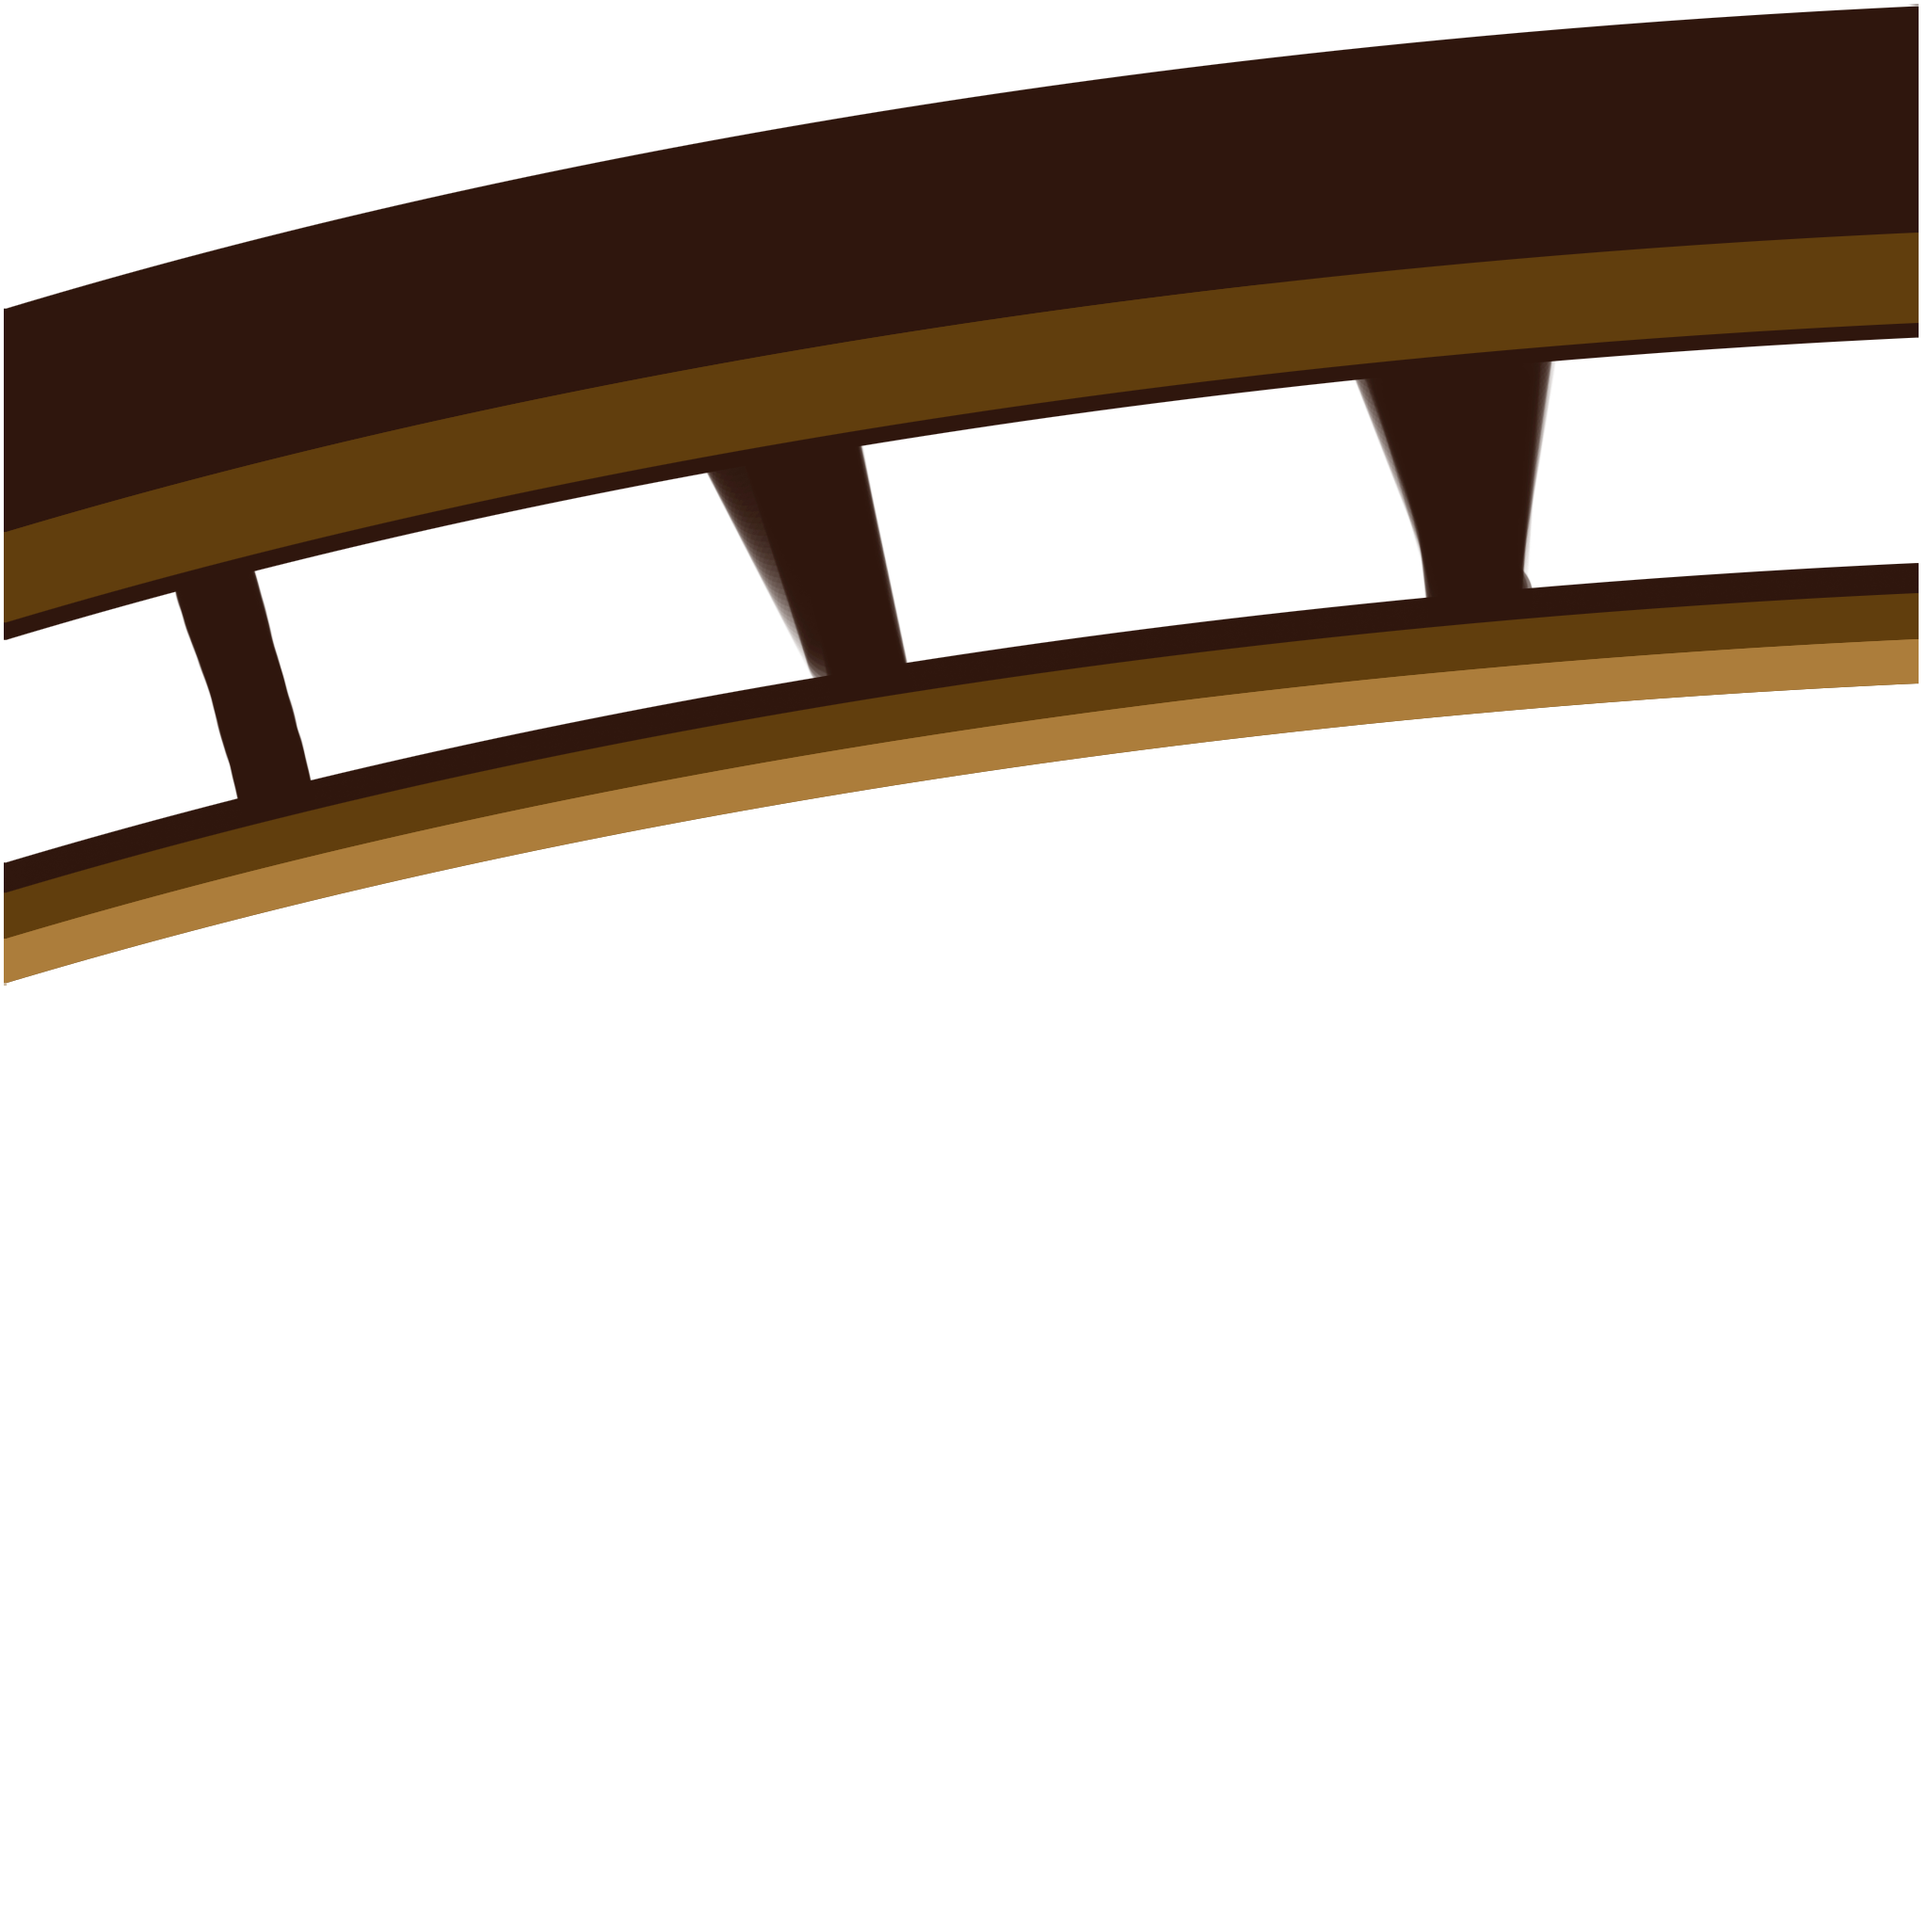
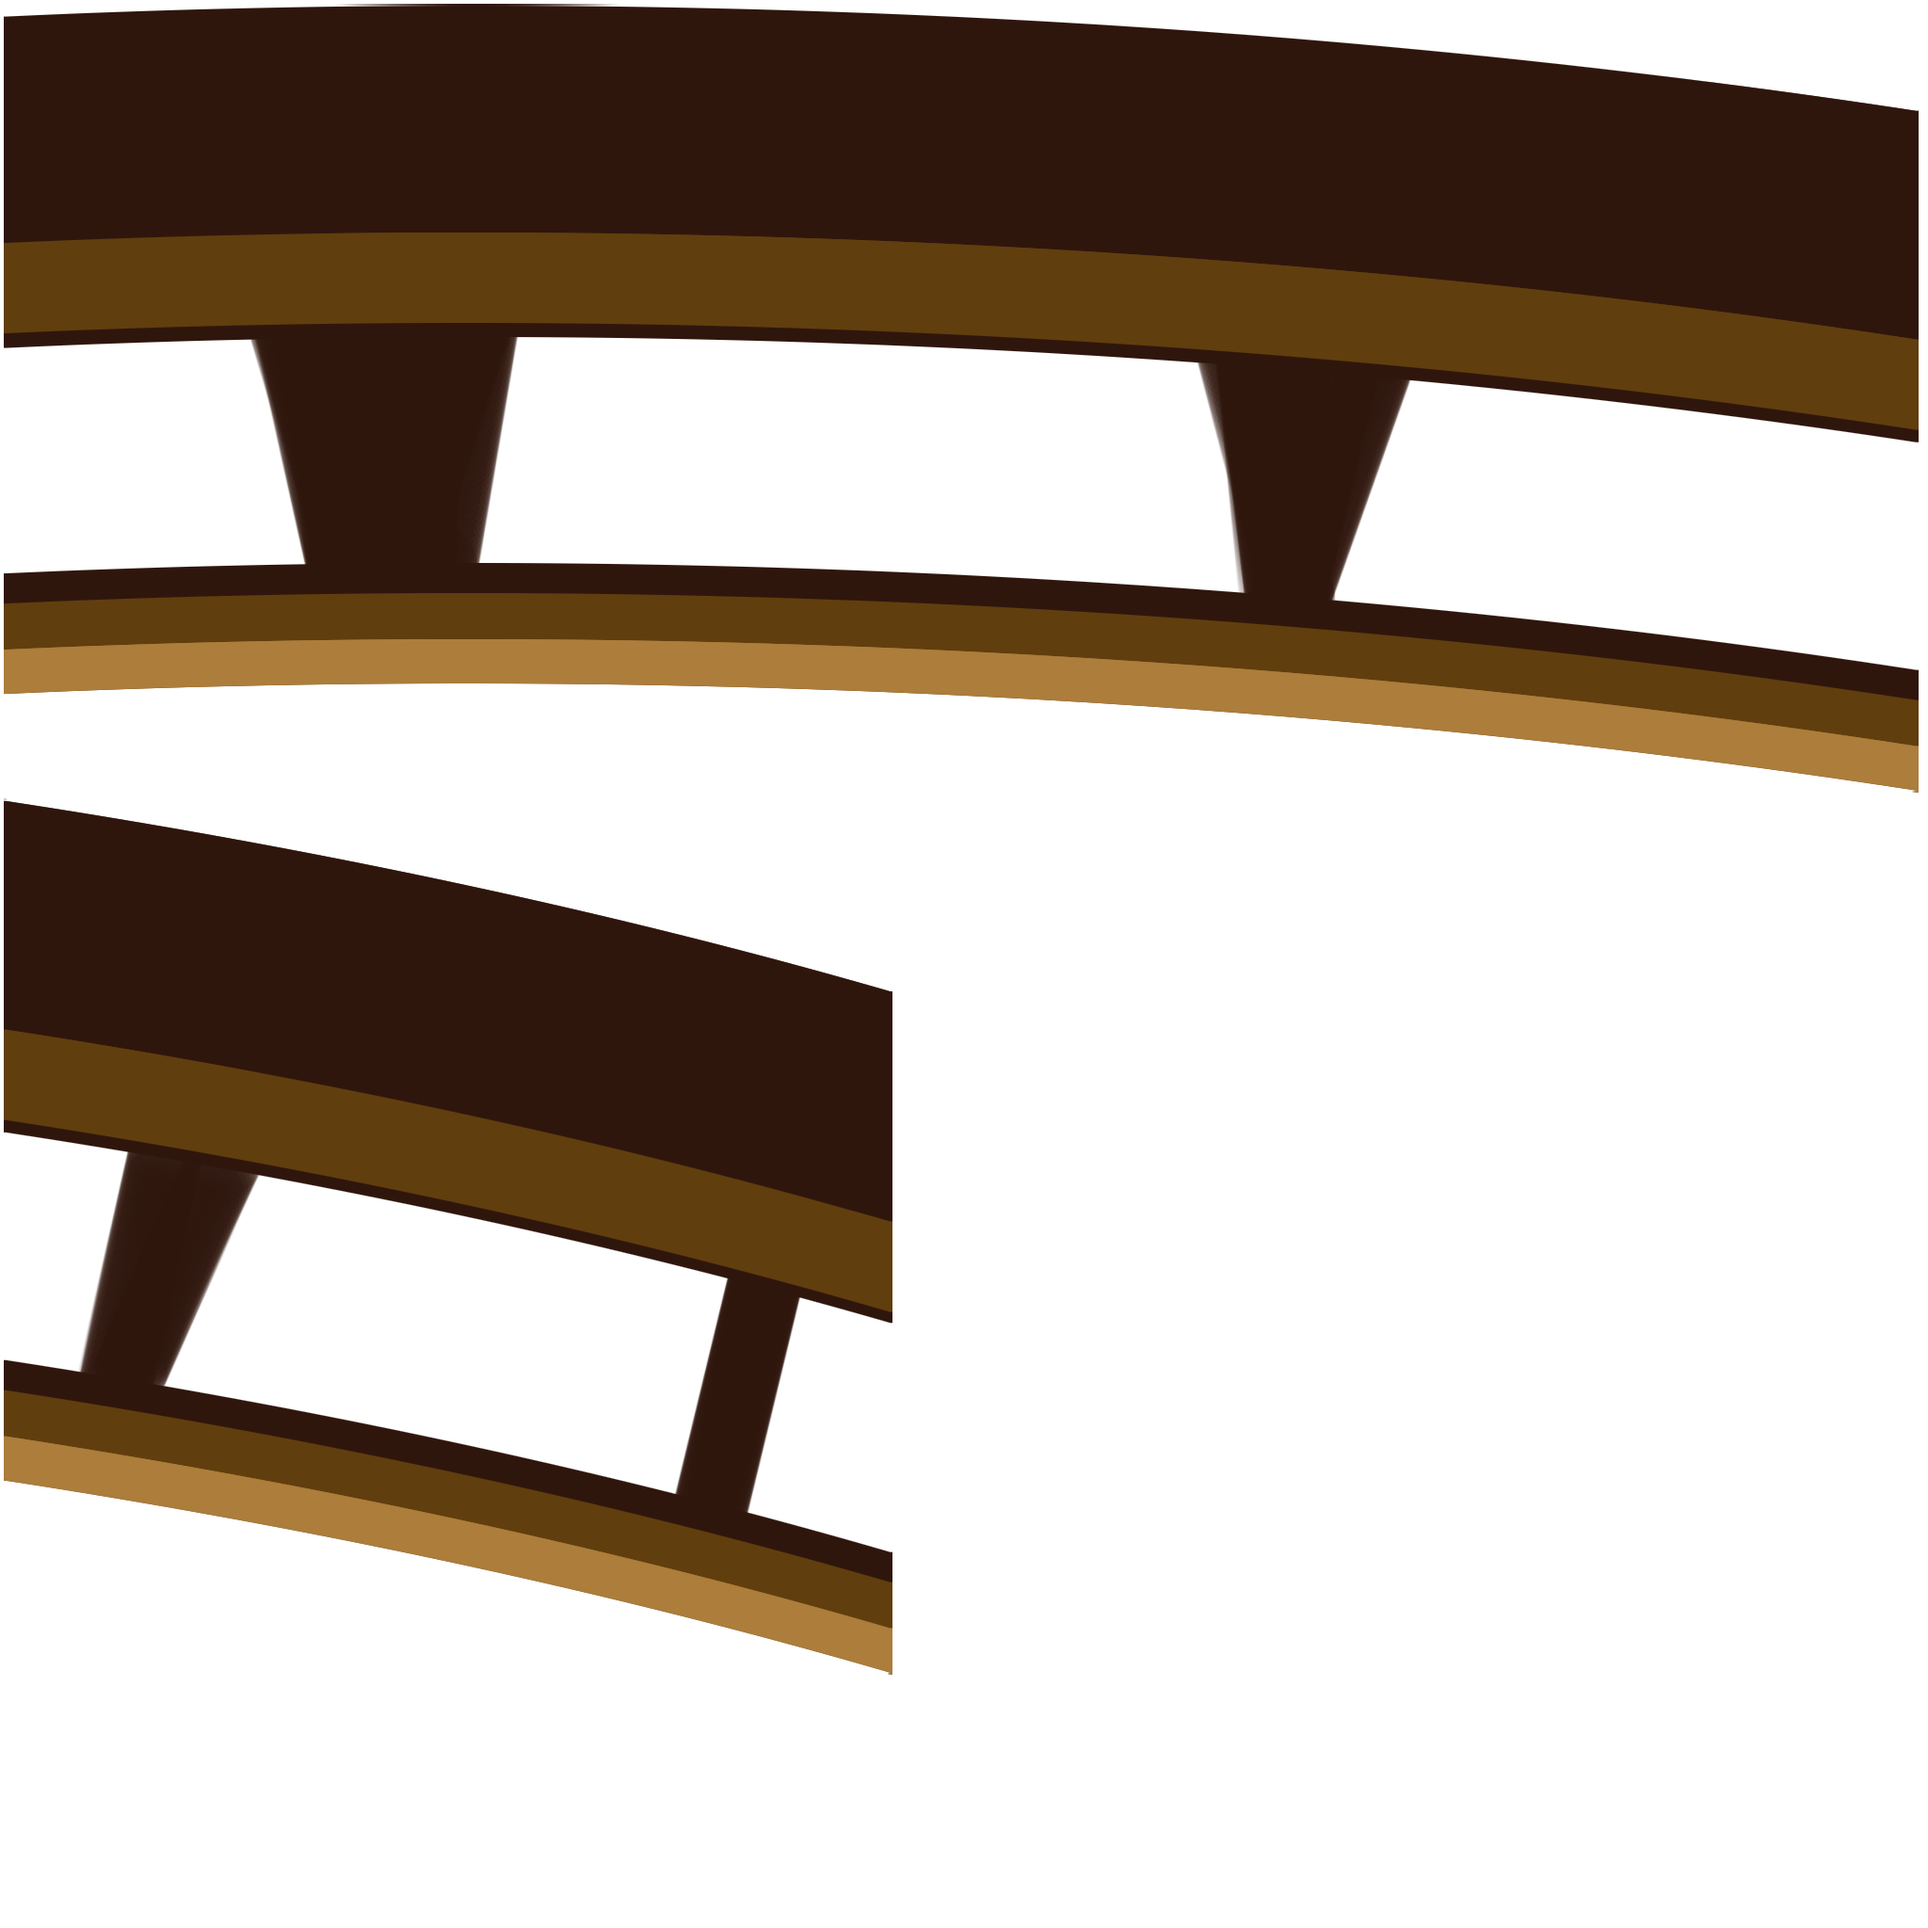
Curtains

diff --git a/werescrewed/src/com/blindtigergames/werescrewed/screens/AlphaScreen.java b/werescrewed/src/com/blindtigergames/werescrewed/screens/AlphaScreen.java
@@ -149,6 +149,8 @@ public class AlphaScreen extends Screen {
 				.getAtlas( "support_left" );
 		TextureAtlas support_middle_right = WereScrewedGame.manager
 				.getAtlas( "support_middle_right" );
+		TextureAtlas curtains = WereScrewedGame.manager
+				.getAtlas( "curtains" );
 		int numDomes = 10;
 		TextureAtlas[ ] dome = new TextureAtlas[ numDomes ];
 		for ( int i = 1; i <= numDomes; ++i ) {
@@ -156,7 +158,7 @@ public class AlphaScreen extends Screen {
 		}
 
 		int max = 2030;
-		int offsetX = 400;
+		int offsetX = 200;
 		int offsetY = 0;
 		int floorY = -199 + offsetY;
 		int seatsY = -583 + offsetY;
@@ -171,7 +173,10 @@ public class AlphaScreen extends Screen {
 		int domeSliceY = 1638;
 
 		int supportY = 6500 + offsetY;
-		int supportX = 0 + offsetX;
+		int supportX = -max + seatsX;
+		
+		int curtainX = seatsX-max+1230;
+		int curtainY = seatsY+585;
 
 		Vector2 pos;
 		for ( int i = numDomes; i > 0; --i ) {
@@ -193,9 +198,26 @@ public class AlphaScreen extends Screen {
 			bgSkele.addBGDecal( b, pos.cpy( ).add( flipX * domeSliceX, 0 ) );
 		}
 
+		//support beam
 		bgSkele.addBGDecal( support_left.createSprite( "support_left" ),
 				new Vector2( supportX, supportY ) );
+		bgSkele.addBGDecal( support_middle_right.createSprite( "support_middle" ),
+				new Vector2( supportX+max, supportY+216 ) );
+		bgSkele.addBGDecal( support_middle_right.createSprite( "support_right" ),
+				new Vector2( supportX+2*max, supportY ) );
 
+		//curtains
+		bgSkele.addFGDecal( curtains.createSprite( "curtains_bottom_left" ),
+				new Vector2( curtainX, curtainY ) );
+		bgSkele.addFGDecal( curtains.createSprite( "curtains_top_left" ),
+				new Vector2( curtainX, curtainY+830 ) );
+		bgSkele.addFGDecal( curtains.createSprite( "curtains_middle" ),
+				new Vector2( curtainX+304, curtainY+1011 ) );
+		bgSkele.addFGDecal( curtains.createSprite( "curtains_top_right" ),
+				new Vector2( curtainX+2333, curtainY+834 ) );
+		bgSkele.addFGDecal( curtains.createSprite( "curtains_bottom_right" ),
+				new Vector2( curtainX+2398, curtainY ) );
+		
 		// floor
 		bgSkele.addBGDecal( floor_seats.createSprite( "floor_left" ),
 				new Vector2( floorX, floorY ) );

diff --git a/werescrewed/src/com/blindtigergames/werescrewed/entity/Entity.java b/werescrewed/src/com/blindtigergames/werescrewed/entity/Entity.java
@@ -27,6 +27,7 @@ import com.blindtigergames.werescrewed.entity.animator.ISpinemator;
 import com.blindtigergames.werescrewed.entity.animator.PlayerAnimator;
 import com.blindtigergames.werescrewed.entity.animator.SimpleFrameAnimator;
 import com.blindtigergames.werescrewed.entity.mover.IMover;
+import com.blindtigergames.werescrewed.entity.platforms.Platform;
 import com.blindtigergames.werescrewed.eventTrigger.EventTrigger;
 import com.blindtigergames.werescrewed.graphics.SpriteBatch;
 import com.blindtigergames.werescrewed.graphics.TextureAtlas;
@@ -1182,8 +1183,8 @@ public class Entity implements GleedLoadable {
 			if ( j == loadedVerts.size - 1 )
 				continue;
 			Vector2 v = loadedVerts.get( j );
-			verts[ i ] = new Vector2( (v.x+positionPixel.x/*+getPositionPixel( ).x*/) * Util.PIXEL_TO_BOX,
-					(v.y+positionPixel.y/*+getPositionPixel( ).y*/) * Util.PIXEL_TO_BOX );
+			verts[ i ] = new Vector2( (v.x+positionPixel.x-getPositionPixel( ).x) * Util.PIXEL_TO_BOX,
+					(v.y+positionPixel.y-getPositionPixel( ).y) * Util.PIXEL_TO_BOX );
 			++i;
 		}
 		polygon.set( verts );
@@ -1209,6 +1210,12 @@ public class Entity implements GleedLoadable {
 			f.setFilterData( filter );
 		}
 		body.setType( body.getType( ) );
+		
+		
+		if ( entityType == EntityType.PLATFORM ){
+			Platform p = (Platform)this;
+			
+		}
 	}
 
 }

diff --git a/werescrewed/src/com/blindtigergames/werescrewed/entity/PolySprite.java b/werescrewed/src/com/blindtigergames/werescrewed/entity/PolySprite.java
@@ -40,8 +40,6 @@ public class PolySprite extends Sprite {
 	//private Matrix4 modelMat; //holds position and rotation for the polygon.
 	//private Matrix4 rotationMat;
 	
-
-
 	/**
 	 * Construct a polysprite with a given texture and color
 	 * @param texture, size/shape doesn't matter, it will be repeated

diff --git a/werescrewed/src/com/blindtigergames/werescrewed/entity/platforms/PlatformType.java b/werescrewed/src/com/blindtigergames/werescrewed/entity/platforms/PlatformType.java
@@ -9,5 +9,5 @@ public enum PlatformType {
 	COMPLEX,
 	TILED,
 	DEFAULT,
-	SHAPE
+	SHAPE,
 }
